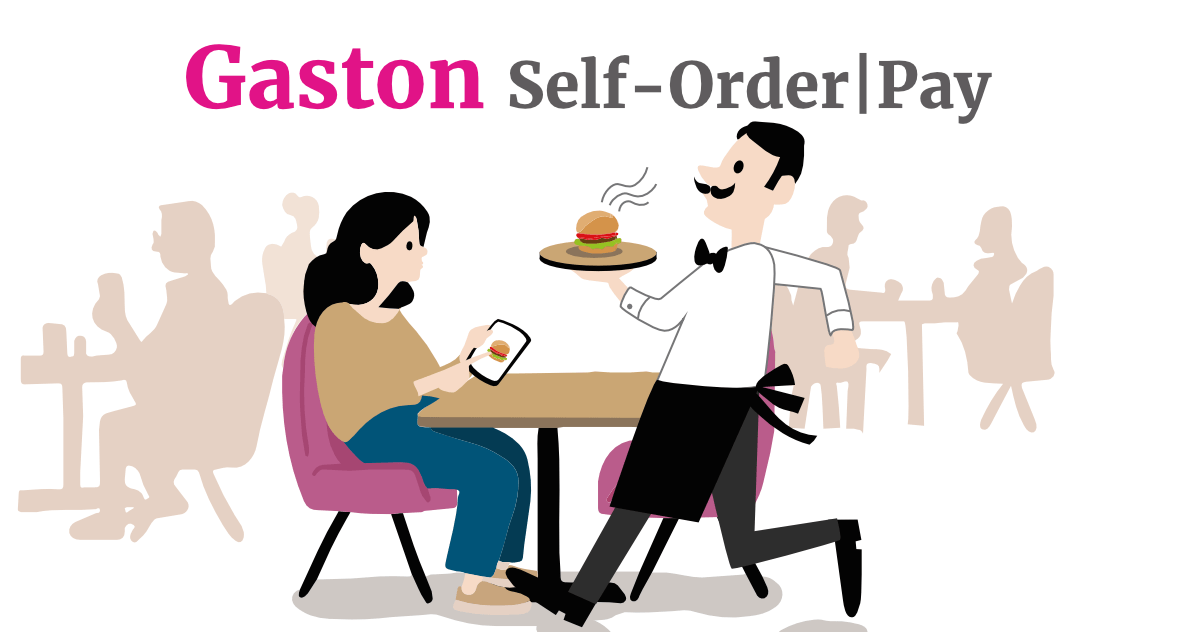
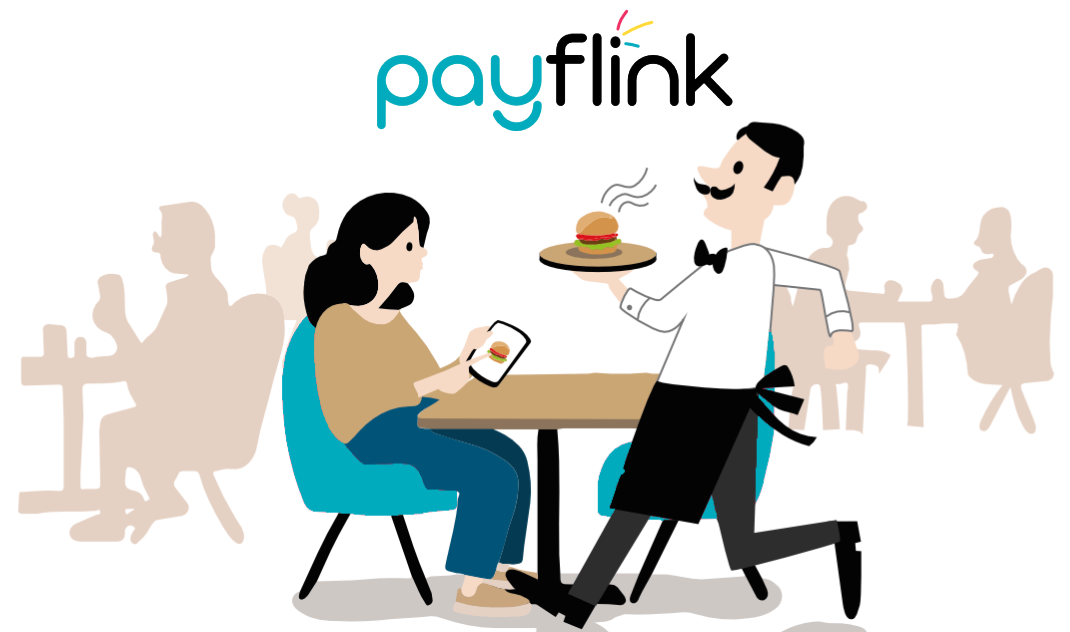
GastonPic geaendert

diff --git a/README 2.md b/README 2.md
@@ -1,24 +1,2 @@
-# Gaston Website
-
-## Stack
-
-### Web framework
-
-Uses [Astro](https://astro.build/) to static build the site.
-
-```sh
-npm start # start dev env
-npm run build # build site
-npm run preview # serve the built site
-npm run netlify # dev env with netlify (rerouting for language)
-```
-
-### Dependency Managment
-
-Use [pnpm](https://pnpm.io/) to manage dependencies.
-```sh
-pnpm i # install deps
-pnpm add -D {my-new-dependency} # add
-pnpm rm {dependency-i-want-to-remove} # remove
-pnpm up --latest # update all deps to the latest version 
-```
+# WebPage
+Project website
